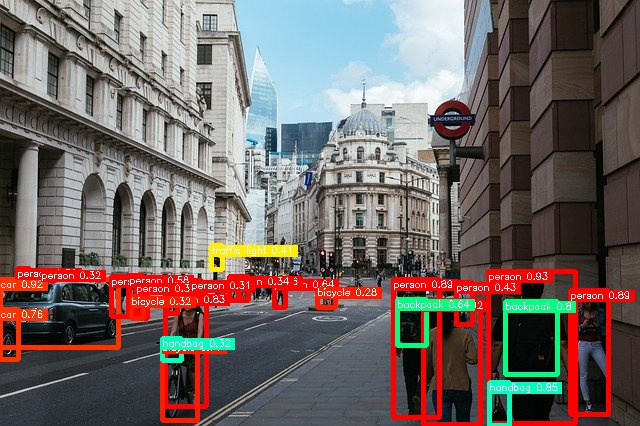
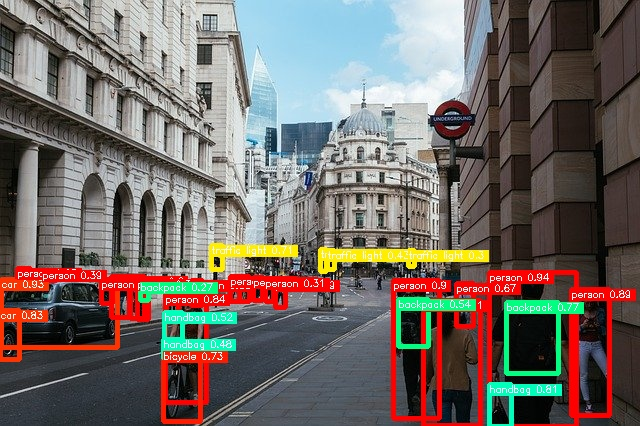
Update processing code for better performance

Changed region(s): [[0.0, 0.5798, 1.0, 1.0]]

diff --git a/object_detection/yolov7/yolov7_utils.py b/object_detection/yolov7/yolov7_utils.py
@@ -17,24 +17,37 @@ def make_divisible(x, divisor):
     # Returns x evenly divisible by divisor
     return math.ceil(x / divisor) * divisor
 
-def preproc(img, input_size, swap=(2, 0, 1)):
-    if len(img.shape) == 3:
-        padded_img = np.ones((input_size[0], input_size[1], img.shape[2]), dtype=np.uint8) * 114
-    else:
-        padded_img = np.ones(input_size, dtype=np.uint8) * 114
+def letterbox(img, new_shape=(640, 640), color=(114, 114, 114), auto=True, scaleFill=False, scaleup=True, stride=32):
+    # Resize and pad image while meeting stride-multiple constraints
+    shape = img.shape[:2]  # current shape [height, width]
+    if isinstance(new_shape, int):
+        new_shape = (new_shape, new_shape)
 
-    r = min(input_size[0] / img.shape[0], input_size[1] / img.shape[1])
-    resized_img = cv2.resize(
-        img,
-        (int(img.shape[1] * r), int(img.shape[0] * r)),
-        interpolation=cv2.INTER_LINEAR,
-    ).astype(np.uint8)
-    padded_img[: int(img.shape[0] * r), : int(img.shape[1] * r)] = resized_img
+    # Scale ratio (new / old)
+    r = min(new_shape[0] / shape[0], new_shape[1] / shape[1])
+    if not scaleup:  # only scale down, do not scale up (for better test mAP)
+        r = min(r, 1.0)
 
-    padded_img = padded_img.transpose(swap)
-    padded_img = np.ascontiguousarray(padded_img, dtype=np.float32)
-    return padded_img, r
+    # Compute padding
+    ratio = r, r  # width, height ratios
+    new_unpad = int(round(shape[1] * r)), int(round(shape[0] * r))
+    dw, dh = new_shape[1] - new_unpad[0], new_shape[0] - new_unpad[1]  # wh padding
+    if auto:  # minimum rectangle
+        dw, dh = np.mod(dw, stride), np.mod(dh, stride)  # wh padding
+    elif scaleFill:  # stretch
+        dw, dh = 0.0, 0.0
+        new_unpad = (new_shape[1], new_shape[0])
+        ratio = new_shape[1] / shape[1], new_shape[0] / shape[0]  # width, height ratios
 
+    dw /= 2  # divide padding into 2 sides
+    dh /= 2
+
+    if shape[::-1] != new_unpad:  # resize
+        img = cv2.resize(img, new_unpad, interpolation=cv2.INTER_LINEAR)
+    top, bottom = int(round(dh - 0.1)), int(round(dh + 0.1))
+    left, right = int(round(dw - 0.1)), int(round(dw + 0.1))
+    img = cv2.copyMakeBorder(img, top, bottom, left, right, cv2.BORDER_CONSTANT, value=color)  # add border
+    return img, r, (dw, dh)
 
 def nms(boxes, scores, nms_thr):
     """Single class NMS implemented in Numpy."""
@@ -145,7 +158,7 @@ def _make_grid(nx=20, ny=20):
     xv, yv = np.meshgrid(np.arange(nx), np.arange(ny))
     return np.stack((xv, yv), 2).reshape(1, 1, ny, nx, 2).astype(np.float32)
 
-def predictions_to_object(predictions,raw_img,ratio,nms_thr,score_thr):
+def predictions_to_object(predictions, raw_img, nms_thr, score_thr, img_shape):
     boxes = predictions[:, :4]
     scores = predictions[:, 4:5] * predictions[:, 5:]
 
@@ -154,11 +167,12 @@ def predictions_to_object(predictions,raw_img,ratio,nms_thr,score_thr):
     boxes_xyxy[:, 1] = boxes[:, 1] - boxes[:, 3] / 2.
     boxes_xyxy[:, 2] = boxes[:, 0] + boxes[:, 2] / 2.
     boxes_xyxy[:, 3] = boxes[:, 1] + boxes[:, 3] / 2.
-    boxes_xyxy /= ratio
     dets = multiclass_nms(boxes_xyxy, scores, nms_thr, score_thr)
 
     detect_object = []
     if dets is not None:
+        # Rescale boxes from img_size to im0 size
+        dets[:, :4] = scale_coords(img_shape[1:], dets[:, :4], raw_img.shape).round()
         img_size_h, img_size_w = raw_img.shape[:2]
         final_boxes, final_scores, final_cls_inds = dets[:, :4], dets[:, 4], dets[:, 5]
         for i, box in enumerate(final_boxes):
@@ -175,3 +189,28 @@ def predictions_to_object(predictions,raw_img,ratio,nms_thr,score_thr):
             detect_object.append(r)
 
     return detect_object
+
+def scale_coords(img1_shape, coords, img0_shape, ratio_pad=None):
+    # Rescale coords (xyxy) from img1_shape to img0_shape
+    if ratio_pad is None:  # calculate from img0_shape
+        gain = min(img1_shape[0] / img0_shape[0], img1_shape[1] / img0_shape[1])  # gain  = old / new
+        pad = (img1_shape[1] - img0_shape[1] * gain) / 2, (img1_shape[0] - img0_shape[0] * gain) / 2  # wh padding
+    else:
+        gain = ratio_pad[0][0]
+        pad = ratio_pad[1]
+
+    coords[:, [0, 2]] -= pad[0]  # x padding
+    coords[:, [1, 3]] -= pad[1]  # y padding
+    coords[:, :4] /= gain
+    coords = clip_coords(coords, img0_shape)
+    return coords
+
+
+def clip_coords(boxes, img_shape):
+    # Clip bounding xyxy bounding boxes to image shape (height, width)
+    boxes[:, 0] = boxes[:, 0].clip(0, img_shape[1])  # x1
+    boxes[:, 1] = boxes[:, 1].clip(0, img_shape[0])  # y1
+    boxes[:, 2] = boxes[:, 2].clip(0, img_shape[1])  # x2
+    boxes[:, 3] = boxes[:, 3].clip(0, img_shape[0])  # y2
+
+    return boxes

diff --git a/object_detection/yolov7/yolov7.py b/object_detection/yolov7/yolov7.py
@@ -7,8 +7,7 @@ import ailia
 import cv2
 import numpy as np
 
-from yolov7_utils import postprocess, predictions_to_object, check_img_size
-from yolov7_utils import preproc as preprocess
+from yolov7_utils import postprocess, predictions_to_object, check_img_size, letterbox
 
 # import original modules
 sys.path.append('../../util')
@@ -101,12 +100,12 @@ parser.add_argument(
 parser.add_argument(
     '-dw', '--detection_width',
     default=-1, type=int,
-    help='The detection width and height for yolo. (default: auto)'
+    help='The detection width and height for yolo. (default: 640)'
 )
 parser.add_argument(
     '-dh', '--detection_height',
     default=-1, type=int,
-    help='The detection height and height for yolo. (default: auto)'
+    help='The detection height and height for yolo. (default: 640)'
 )
 parser.add_argument(
     '--classes', nargs='+', 
@@ -136,8 +135,12 @@ def recognize_from_image(detector):
         # prepare input data
         logger.debug(f'input image: {image_path}')
         raw_img = cv2.imread(image_path)  # BGR
-        img, ratio = preprocess(raw_img, (HEIGHT, WIDTH))
-        img /= 255.0  # 0 - 255 to 0.0 - 1.0
+        # Padded resize
+        img = letterbox(raw_img, (HEIGHT, WIDTH), stride=STRIDE)[0]
+        # Convert
+        img = img[:, :, ::-1].transpose(2, 0, 1)  # BGR to RGB
+        img = np.ascontiguousarray(img)
+        img = img/255.0  # 0 - 255 to 0.0 - 1.0
             
         logger.debug(f'input image shape: {raw_img.shape}')
 
@@ -158,9 +161,7 @@ def recognize_from_image(detector):
             output = detector.run(img[None, :, :, :])
 
         predictions = postprocess(output, ANCHORS, p6=STRIDE==64)[0]
-
-        detect_object = predictions_to_object(predictions, raw_img, ratio, args.iou, args.threshold)
-        detect_object = reverse_letterbox(detect_object, raw_img, (raw_img.shape[0], raw_img.shape[1]))
+        detect_object = predictions_to_object(predictions, raw_img, args.iou, args.threshold, img.shape)
         res_img = plot_results(detect_object, raw_img, COCO_CATEGORY)
 
         # plot result
@@ -201,12 +202,15 @@ def recognize_from_video(detector):
             break
 
         raw_img = frame
-        img, ratio = preprocess(raw_img, (HEIGHT, WIDTH))
-        img /= 255.0  # 0 - 255 to 0.0 - 1.0
+        # Padded resize
+        img = letterbox(raw_img, (HEIGHT, WIDTH), stride=STRIDE)[0]
+        # Convert
+        img = img[:, :, ::-1].transpose(2, 0, 1)  # BGR to RGB
+        img = np.ascontiguousarray(img)
+        img = img/255.0  # 0 - 255 to 0.0 - 1.0
         output = detector.run(img[None, :, :, :])
         predictions = postprocess(output, ANCHORS, p6=STRIDE==64)[0]
-        detect_object = predictions_to_object(predictions, raw_img, ratio, args.iou, args.threshold)
-        detect_object = reverse_letterbox(detect_object, raw_img, (raw_img.shape[0], raw_img.shape[1]))
+        detect_object = predictions_to_object(predictions, raw_img, args.iou, args.threshold, img.shape)
         res_img = plot_results(detect_object, raw_img, COCO_CATEGORY)
         cv2.imshow('frame', res_img)
         frame_shown = True
